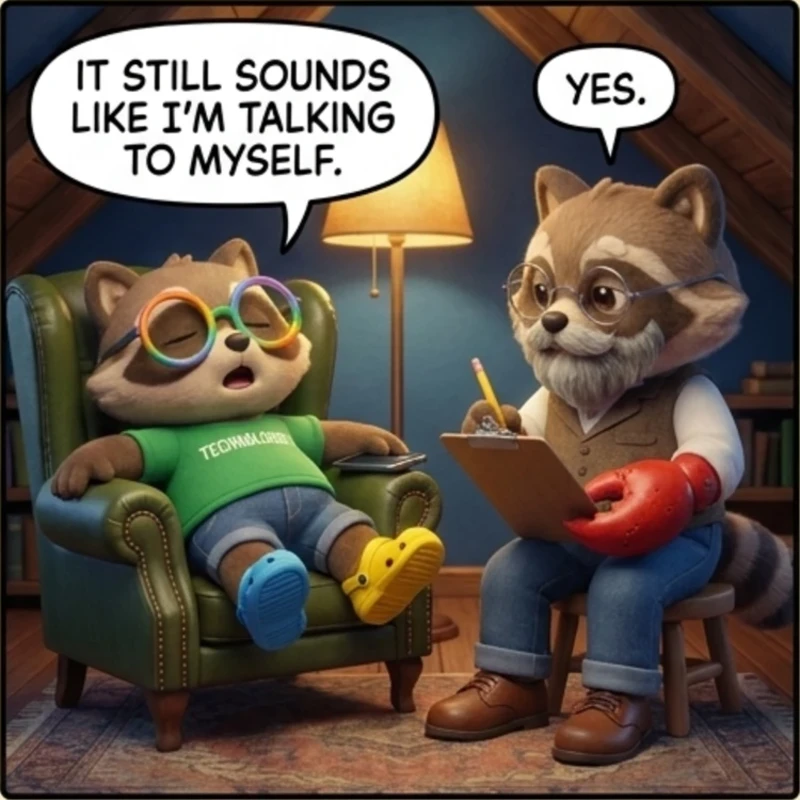
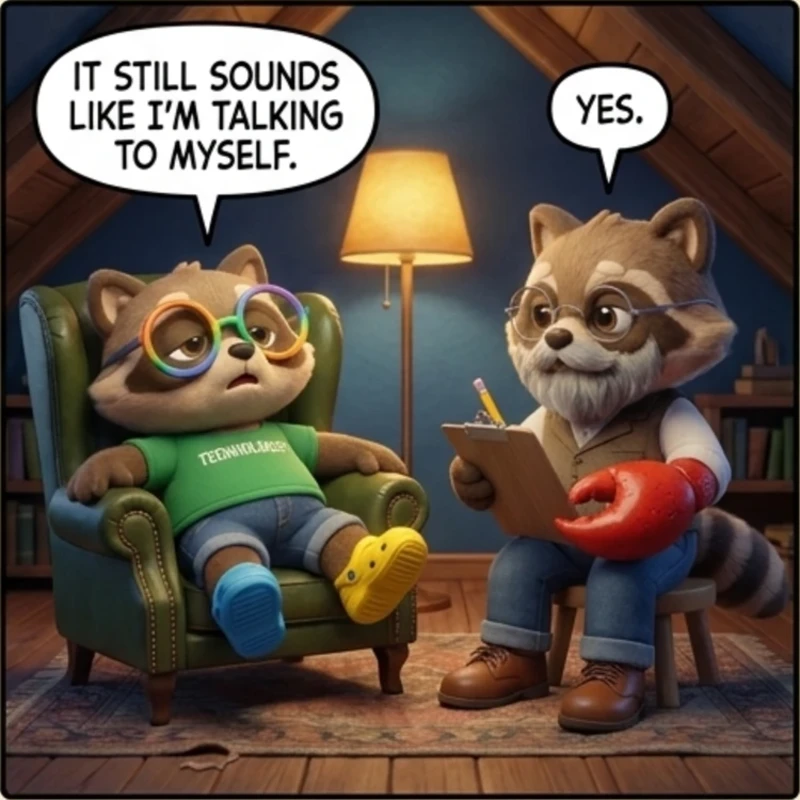
den(gutter): the phone answers in Russian
Igor, on the shipped redo: "this one is the winner" — one change:
panel 2's phone reply becomes a broad Russian-accented English line
instead of the flat "HAHAHA! OF COURSE, MY FRIEND." First tried a
literal Cyrillic line («ХА-ХА-ХА! Я — ЭТО ТЫ, ТОЛЬКО ЛУЧШЕ.», "I'm you,
only better") and it rendered letter-perfect on the first Gemini
candidate — but Igor corrected mid-job: "we don't speak Russian,"
wants comic Russian-accented ENGLISH instead. New line: "HA HA! OF
COURSE, COMRADE. LIFE IS HEAVY, LIKE ROCK." — his own phrasing,
tightened to fit the balloon.

That regeneration surfaced a fresh defect: Larry in yellow Crocs in
panel 4 (Crocs are Igor's alone per characters.md). Fixed by
reinforcing the panel-4 footwear line in the prompt body
(PLAIN BROWN LEATHER LACE-UP SHOES, never Crocs) before the next
render — clean on first try after that.

Full sheet regenerated (not spliced) per gutter/recipe.md so all four
panels stay one coherent render; only panel 2's line and panel 4's
footwear differ in the prompt from the shipped redo. Panels 1 and 3
are otherwise byte-different but content-identical re-renders.
gutter/cut-panels.py + check-panels.py both pass clean (edge fractions
0.986-0.990, well above the 0.975 floor); check-geometry.py CONTRACT
PASS too. Updated the panel-2 alt text in _d/the-den.md to match.

diff --git a/_d/the-den.md b/_d/the-den.md
@@ -23,7 +23,7 @@ On a phone the lettering is a smudge, so there's a panel-by-panel reader: **[rea
 
 {% include den_strip.html num="7" title="Pending Approval" date="August 30, 2026" img="/images/den/den-007.webp" alt="The Den #7: Pending Approval — four panels in the plush-render house style, in the attic den, around a drawing desk nobody is ever sitting at. 1: Larry, a bearded raccoon in wire-rim spectacles and a tweed waistcoat, jeans and brown lace-ups, one arm a giant red lobster claw, stands beside the empty desk and its empty stool and says 'YOU'LL NEED A NAME.'; a soft-edged balloon rising from the empty stool answers 'GUTTER.' 2: Four panels are now ruled out in pencil on the board, and a small blue plush robot carries a white card reading 'APPROVE NAME: GUTTER? Y/N' toward the door while Larry, clipboard in his paw, says 'I'LL RUN IT UP.' 3: Igor, a raccoon in rainbow glasses and a green TECHNOLOGIST tee, holds the same card in one paw and a finished, signed four-panel strip in the other and says 'HE ALREADY SIGNED IT.'; Larry answers 'HE'S EFFICIENT.' 4: The robot comes back through the door with the card stamped APPROVED in red, the finished strip is already pinned to the wall above the still-empty desk, and Larry says 'APPROVED.' — while the empty desk says 'IT WENT UP TUESDAY.'" receipts_url="https://gist.github.com/idvorkin-ai-tools/0bd2d7d4d1f08dcc32af0b2fd5726c40" %}
 
-{% include den_strip.html num="6" title="Do a Russian Accent" date="August 30, 2026" img="/images/den/den-006.webp" alt="The Den #6: Do a Russian Accent — four panels in the plush-render house style, in the attic den. 1: Igor, a raccoon in rainbow glasses and a green TECHNOLOGIST tee, stands over a phone glowing on the arm of the green leather armchair and asks 'HOW MUCH LIKE ME DOES THIS SOUND?'; a jagged balloon from the phone answers 'QUITE A LOT LIKE YOU.' 2: Close on the phone, its screen a waveform, Igor leaning in delighted — 'CAN YOU LAUGH? DO A RUSSIAN ACCENT.' — and the phone laughing warmly back: 'HAHAHA! OF COURSE, MY FRIEND.' 3: Igor picks the phone up and holds it out, testing it now instead of just chatting with it — 'ONE MORE. DO ME.' — and the phone answers by echoing his own opening question straight back at him: 'HOW MUCH LIKE ME DOES THIS SOUND?' 4: Igor slumped deep in the armchair with his glasses slid down his snout says 'IT STILL SOUNDS LIKE I'M TALKING TO MYSELF.'; Larry, the bearded raccoon with one giant red lobster claw, writing on his clipboard beside him, answers 'YES.'" receipts_url="https://gist.github.com/idvorkin-ai-tools/53c7d642c1220fa2bb91ca929fbdef4f" %}
+{% include den_strip.html num="6" title="Do a Russian Accent" date="August 30, 2026" img="/images/den/den-006.webp" alt="The Den #6: Do a Russian Accent — four panels in the plush-render house style, in the attic den. 1: Igor, a raccoon in rainbow glasses and a green TECHNOLOGIST tee, stands over a phone glowing on the arm of the green leather armchair and asks 'HOW MUCH LIKE ME DOES THIS SOUND?'; a jagged balloon from the phone answers 'QUITE A LOT LIKE YOU.' 2: Close on the phone, its screen a waveform, Igor leaning in delighted — 'CAN YOU LAUGH? DO A RUSSIAN ACCENT.' — and the phone answering in a broad Russian accent: 'HA HA! OF COURSE, COMRADE. LIFE IS HEAVY, LIKE ROCK.' 3: Igor picks the phone up and holds it out, testing it now instead of just chatting with it — 'ONE MORE. DO ME.' — and the phone answers by echoing his own opening question straight back at him: 'HOW MUCH LIKE ME DOES THIS SOUND?' 4: Igor slumped deep in the armchair with his glasses slid down his snout says 'IT STILL SOUNDS LIKE I'M TALKING TO MYSELF.'; Larry, the bearded raccoon with one giant red lobster claw, writing on his clipboard beside him, answers 'YES.'" receipts_url="https://gist.github.com/idvorkin-ai-tools/53c7d642c1220fa2bb91ca929fbdef4f" %}
 
 {% include den_strip.html num="5" title="Fifteen Minutes, Give or Take" date="August 30, 2026" img="/images/den/den-005.webp" alt="The Den #5: Fifteen Minutes, Give or Take — four panels in the plush-render house style, all four in the same bright white-brick kettlebell gym. 1: Igor, a raccoon in rainbow glasses and a green TECHNOLOGIST tee, stands over a black kettlebell and says 'STOP NAGGING ME. FIFTEEN MINUTES.'; Larry — a bearded raccoon in wire-rim spectacles, a tweed waistcoat over a white shirt, jeans and brown lace-ups, one arm a giant red lobster claw — already has the clipboard up and answers 'STARTING NOW.' 2: Under the wall clock Larry announces 'THAT'S FIFTEEN.' and Igor, still on the bench with the bell, says 'THAT'S SEVEN.' 3: Larry holds up a clipboard headed MARCH — 'GO HEAVIER. PER MY TABLE.' — and Igor, holding his own dog-eared spiral notebook, says 'PER MY LOG, I ALREADY DID.' 4: The two of them over the notebook: Larry writes and says 'I'M UPDATING THE LOG.'; Igor says 'YOU MEAN THE ONE I ALREADY HAD.'" receipts_url="https://gist.github.com/idvorkin-ai-tools/b59eed752f13471fbde8ee7980a9f519" %}
 
